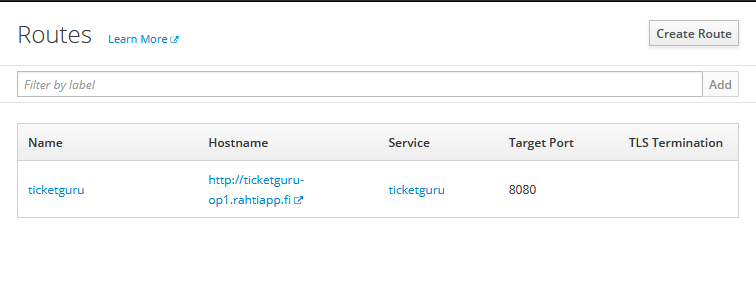
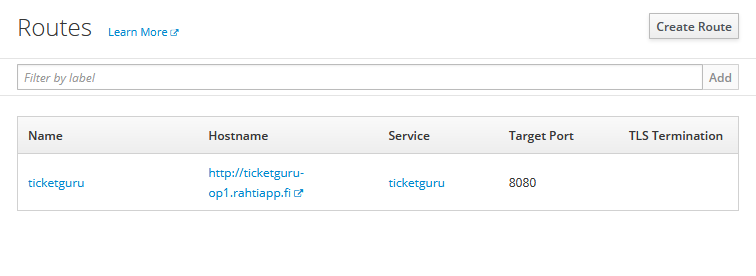
Lisätty custom-tyylit kuville. Korjauksia tekstiin ja kuviin.

diff --git a/docs/stylesheets/extra.css b/docs/stylesheets/extra.css
@@ -1,0 +1,5 @@
+img {
+  border: 0.1rem solid #e5e7eb;
+  box-shadow: rgba(0, 0, 0, 0.35) 0px 5px 15px;
+}
+

diff --git a/docs/ohje_spring_rahti.md b/docs/ohje_spring_rahti.md
@@ -366,13 +366,13 @@ Profiilikohtaiset asetukset luetaan globaalien asetusten lisäksi. Näin esim. j
 
 Seuraavassa esimerkissä käytetään palvelimen ajoympäristöstä luettavia ympäristömuuttuja-arvoja. Näin julkaisuympäristön konfiguraatioparametreja ei tarvitse viedä versionhallintaan.
 
-Rahti-projektiin luotavat kontit saavat projektiin luodun tietokantapalvelun tiedot ajoympärisöön määritetyistä ympäristömuuttujista, joiden nimi muodostetaan tietokantapalvelun nimen perusteella seuraavasti:
+Rahti-projektiin luotavat kontit saavat projektiin luodun tietokantapalvelun tiedot ajoympäristöön määritetyistä ympäristömuuttujista, joiden nimi muodostetaan tietokantapalvelun nimen perusteella seuraavasti:
 ``` { .yaml .no-copy }
   <tietokantapalvelun nimi>_SERVICE_HOST
   <tietokantapalvelun nimi>_SERVICE_PORT
 ```  
 
-Voit avata kontin Terminal-näkymän ja tarkastella ympäristömuuttujia `env` komennolla. Alla olevassa kuvassa ympäristömuuttujista on lsitattu muuttujat, jotka kertoo tietokantapalvelun, jonka nimi on `mysql-service`, tiedot muille Rahti-projektin konteille.
+Voit avata kontin Terminal-näkymän ja tarkastella ympäristömuuttujia `env` komennolla. Alla olevassa kuvassa ympäristömuuttujista on listattu muuttujat, jotka kertovat tietokantapalvelun, jonka nimi on `mysql-service`, tiedot muille Rahti-projektin konteille.
 
 ![](img/rahti_pod_env_example.png)
 
